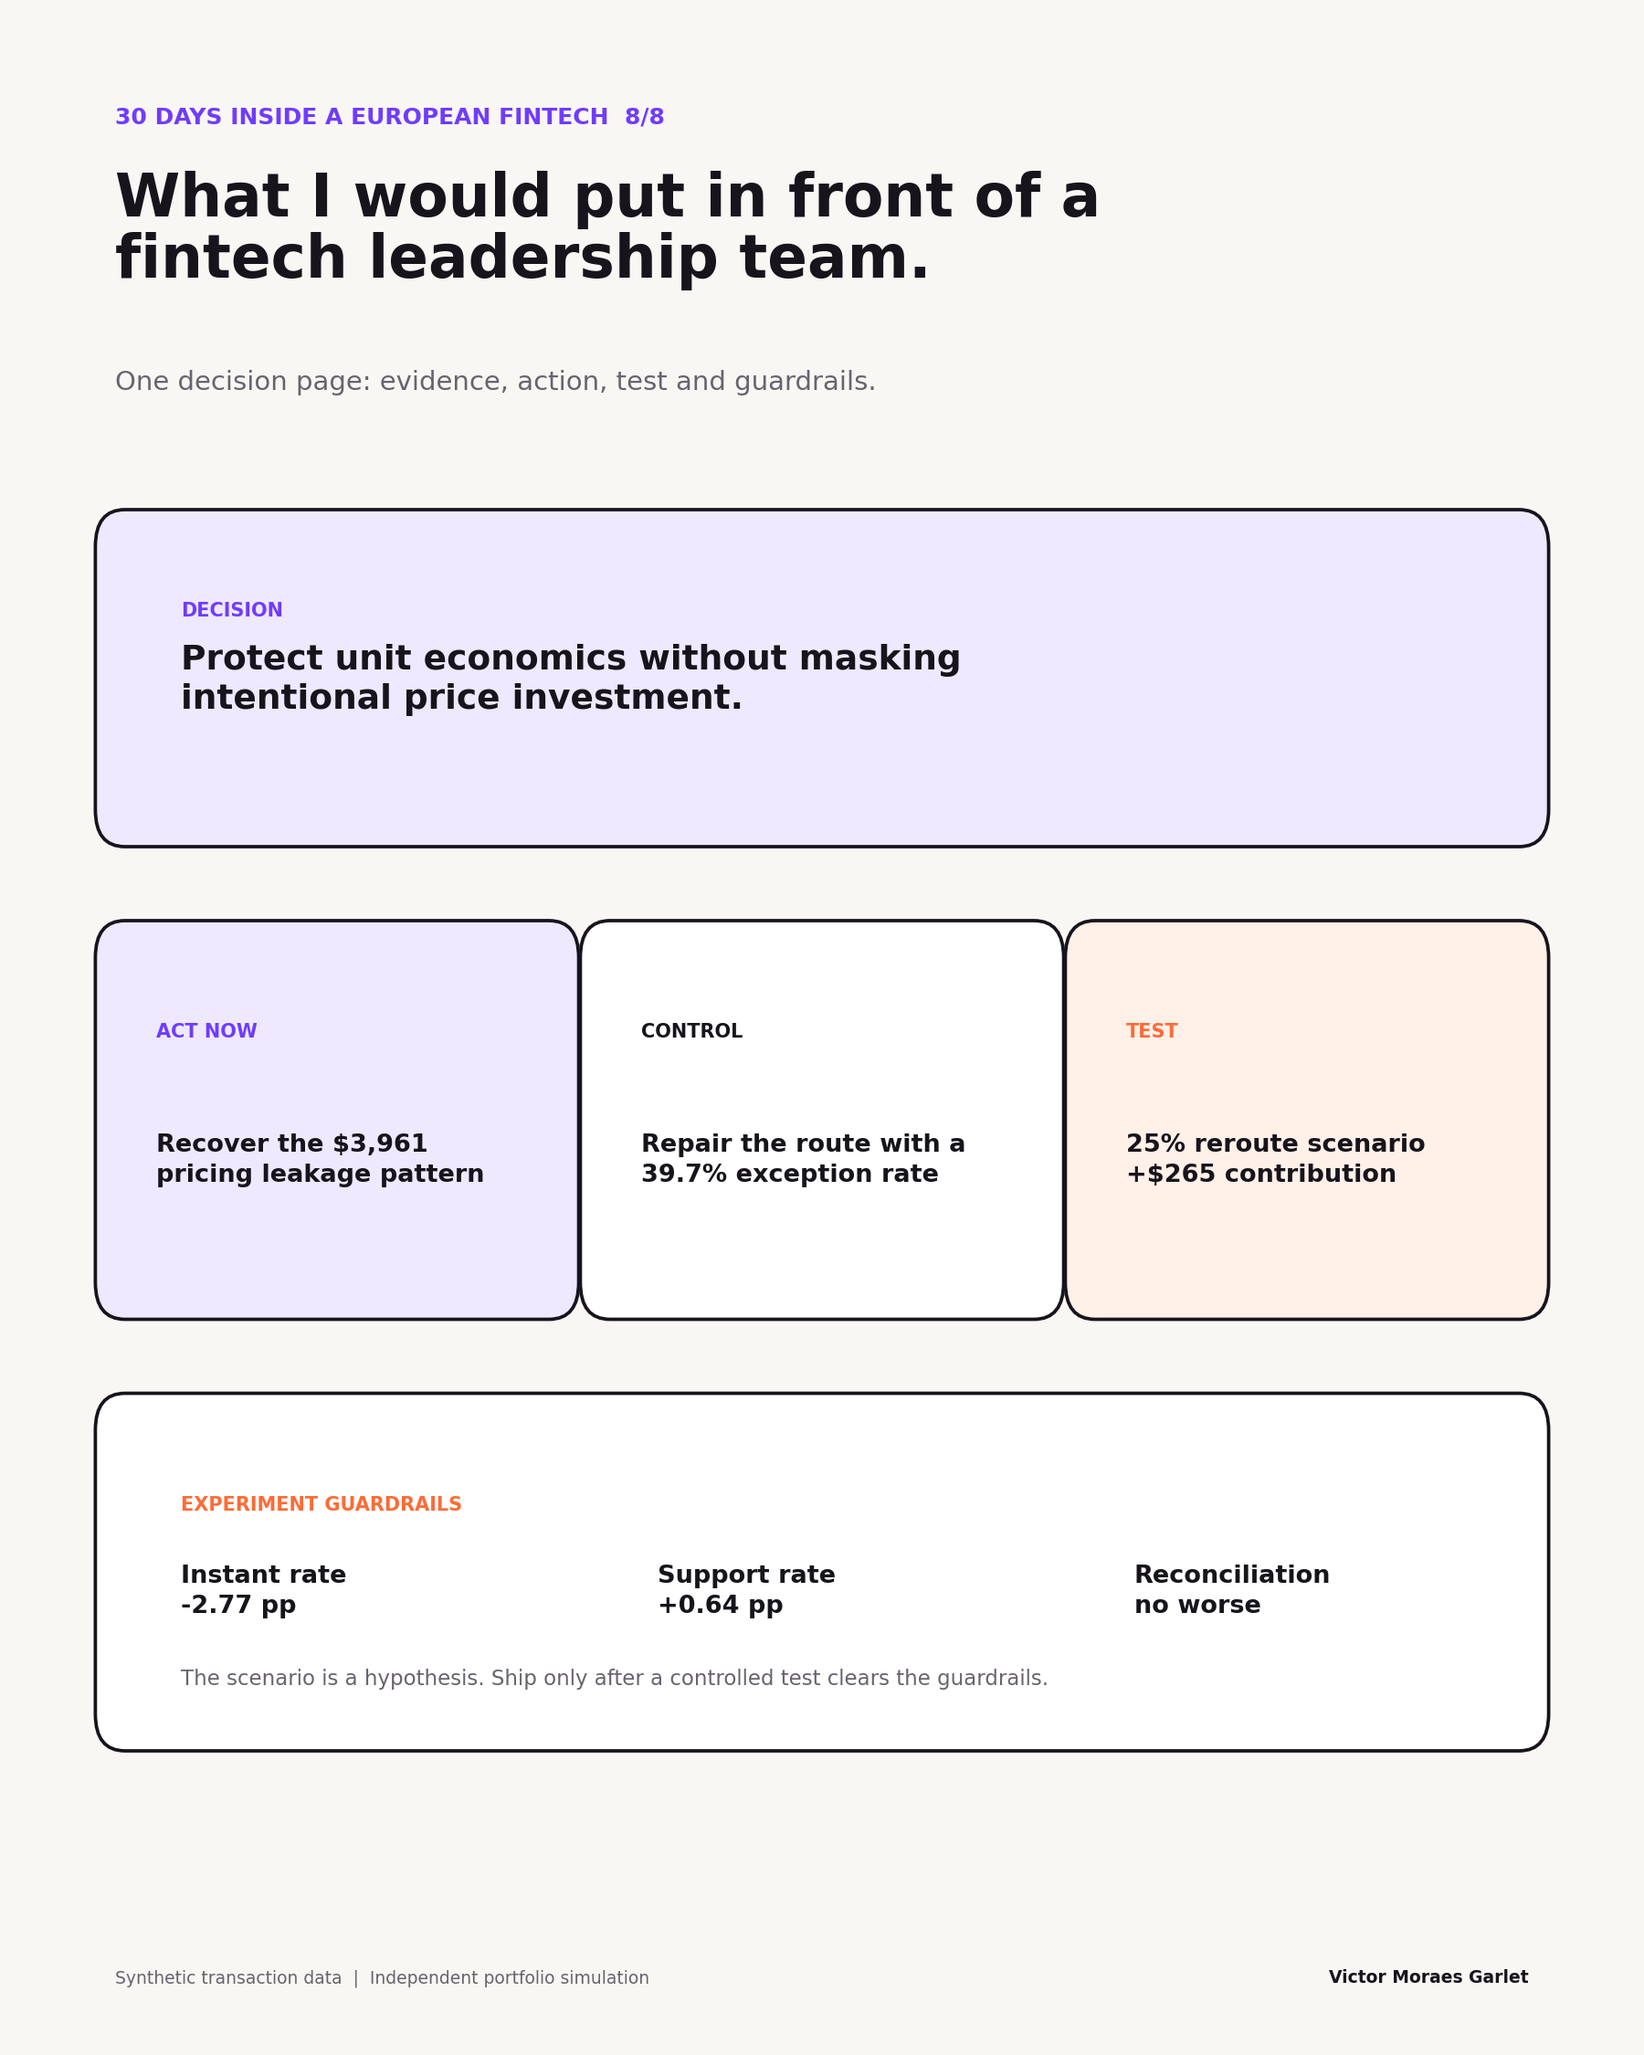
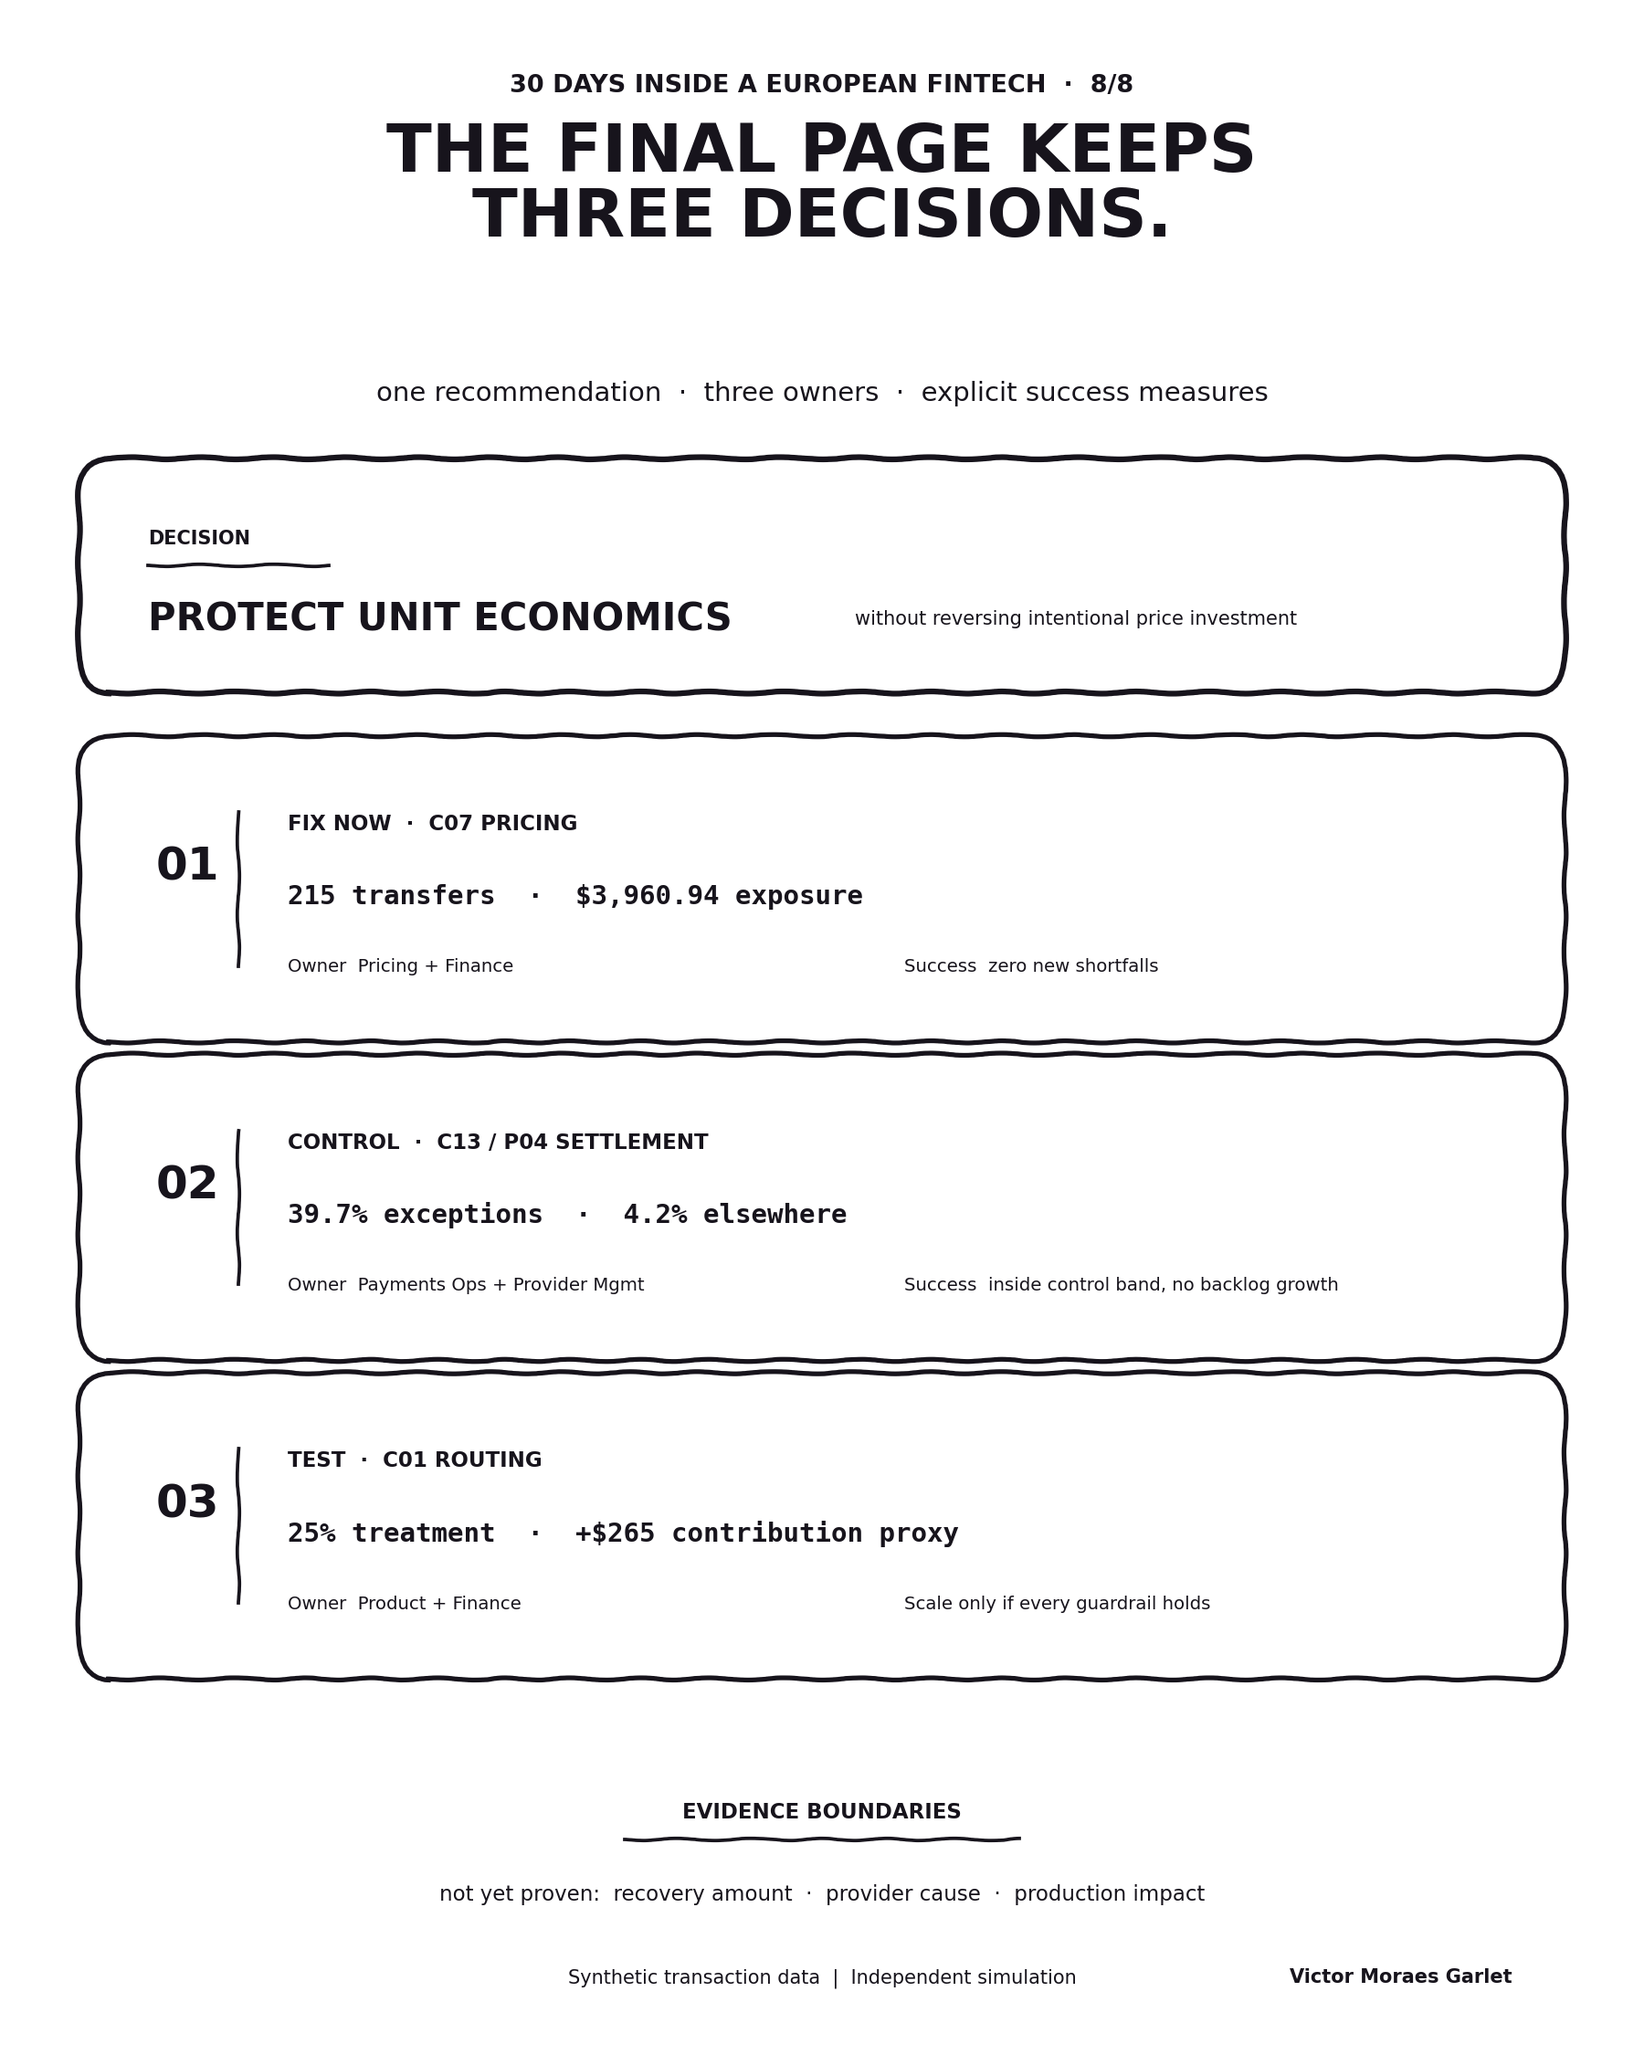
Approve and schedule episode 8

diff --git a/scripts/build_visuals.py b/scripts/build_visuals.py
@@ -617,31 +617,80 @@ def build_episode_08(connection):
         """,
     )[0]
 
-    fig, ax = base_figure(
-        8,
-        "What I would put in front of a\nfintech leadership team.",
-        "One decision page: evidence, action, test and guardrails.",
-    )
-    card(ax, 0.07, 0.60, 0.86, 0.14, PURPLE_SOFT)
-    ax.text(0.11, 0.70, "DECISION", color=PURPLE, fontsize=10, fontweight="bold")
-    ax.text(0.11, 0.655, "Protect unit economics without masking\nintentional price investment.", color=INK, fontsize=18, fontweight="bold", linespacing=1.25)
+    fig = plt.figure(figsize=(12, 15), facecolor=WHITE)
+    ax = fig.add_axes((0, 0, 1, 1))
+    ax.set_xlim(0, 1)
+    ax.set_ylim(0, 1)
+    ax.axis("off")
 
-    cards = [
-        (0.07, 0.37, "ACT NOW", f"Recover the ${leakage:,.0f}\npricing leakage pattern", PURPLE_SOFT, PURPLE),
-        (0.365, 0.37, "CONTROL", f"Repair the route with a\n{hotspot:.1f}% exception rate", WHITE, INK),
-        (0.66, 0.37, "TEST", f"25% reroute scenario\n+${scenario[0]:,.0f} contribution", ORANGE_SOFT, ORANGE),
+    def rough_card(x, y, width, height, linewidth=2.5):
+        patch = FancyBboxPatch(
+            (x, y),
+            width,
+            height,
+            boxstyle="round,pad=0.012,rounding_size=0.018",
+            linewidth=linewidth,
+            edgecolor=INK,
+            facecolor=WHITE,
+        )
+        patch.set_sketch_params(scale=1.2, length=90, randomness=2.5)
+        ax.add_patch(patch)
+
+    def rough_line(xs, ys, linewidth=2.0):
+        line, = ax.plot(xs, ys, color=INK, linewidth=linewidth)
+        line.set_sketch_params(scale=1.2, length=90, randomness=2.5)
+
+    fig.text(0.50, 0.955, "30 DAYS INSIDE A EUROPEAN FINTECH  ·  8/8", ha="center", color=INK, fontsize=13, fontweight="bold")
+    fig.text(0.50, 0.885, "THE FINAL PAGE KEEPS\nTHREE DECISIONS.", ha="center", color=INK, fontsize=35, fontweight="bold", linespacing=1.0)
+    fig.text(0.50, 0.805, "one recommendation  ·  three owners  ·  explicit success measures", ha="center", color=INK, fontsize=14)
+
+    rough_card(0.06, 0.675, 0.88, 0.09, 3.0)
+    ax.text(0.09, 0.735, "DECISION", ha="left", color=INK, fontsize=10, fontweight="bold")
+    rough_line([0.09, 0.20], [0.725, 0.725], 1.8)
+    ax.text(0.09, 0.693, "PROTECT UNIT ECONOMICS", ha="left", color=INK, fontsize=20, fontweight="bold")
+    ax.text(0.52, 0.696, "without reversing intentional price investment", ha="left", color=INK, fontsize=10)
+
+    rows = [
+        (
+            0.505,
+            "01",
+            "FIX NOW  ·  C07 PRICING",
+            f"215 transfers  ·  ${leakage:,.2f} exposure",
+            "Owner  Pricing + Finance",
+            "Success  zero new shortfalls",
+        ),
+        (
+            0.350,
+            "02",
+            "CONTROL  ·  C13 / P04 SETTLEMENT",
+            f"{hotspot:.1f}% exceptions  ·  4.2% elsewhere",
+            "Owner  Payments Ops + Provider Mgmt",
+            "Success  inside control band, no backlog growth",
+        ),
+        (
+            0.195,
+            "03",
+            "TEST  ·  C01 ROUTING",
+            f"25% treatment  ·  +${scenario[0]:,.0f} contribution proxy",
+            "Owner  Product + Finance",
+            "Scale only if every guardrail holds",
+        ),
     ]
-    for x, y, tag, body, fill, accent in cards:
-        card(ax, x, y, 0.27, 0.17, fill)
-        ax.text(x + 0.025, y + 0.125, tag, color=accent, fontsize=10, fontweight="bold")
-        ax.text(x + 0.025, y + 0.055, body, color=INK, fontsize=13, fontweight="bold", linespacing=1.35)
 
-    card(ax, 0.07, 0.16, 0.86, 0.15, WHITE)
-    ax.text(0.11, 0.265, "EXPERIMENT GUARDRAILS", color=ORANGE, fontsize=10, fontweight="bold")
-    ax.text(0.11, 0.215, f"Instant rate\n{scenario[1]:+.2f} pp", color=INK, fontsize=13, fontweight="bold", linespacing=1.35)
-    ax.text(0.40, 0.215, f"Support rate\n{scenario[2]:+.2f} pp", color=INK, fontsize=13, fontweight="bold", linespacing=1.35)
-    ax.text(0.69, 0.215, "Reconciliation\nno worse", color=INK, fontsize=13, fontweight="bold", linespacing=1.35)
-    ax.text(0.11, 0.18, "The scenario is a hypothesis. Ship only after a controlled test clears the guardrails.", color=MUTED, fontsize=11)
+    for y, number, action, evidence, owner, success in rows:
+        rough_card(0.06, y, 0.88, 0.125)
+        ax.text(0.095, y + 0.073, number, ha="left", va="center", color=INK, fontsize=24, fontweight="bold")
+        rough_line([0.145, 0.145], [y + 0.025, y + 0.100], 1.8)
+        ax.text(0.175, y + 0.091, action, ha="left", color=INK, fontsize=11, fontweight="bold")
+        ax.text(0.175, y + 0.055, evidence, ha="left", color=INK, fontsize=14, fontweight="bold", family="monospace")
+        ax.text(0.175, y + 0.022, owner, ha="left", color=INK, fontsize=9.5)
+        ax.text(0.55, y + 0.022, success, ha="left", color=INK, fontsize=9.5)
+
+    ax.text(0.50, 0.115, "EVIDENCE BOUNDARIES", ha="center", color=INK, fontsize=11, fontweight="bold")
+    rough_line([0.38, 0.62], [0.105, 0.105], 1.8)
+    ax.text(0.50, 0.075, "not yet proven:  recovery amount  ·  provider cause  ·  production impact", ha="center", color=INK, fontsize=11)
+    fig.text(0.50, 0.035, "Synthetic transaction data  |  Independent simulation", ha="center", color=INK, fontsize=10)
+    fig.text(0.92, 0.035, "Victor Moraes Garlet", ha="right", color=INK, fontsize=10, fontweight="bold")
     save(fig, "episode_08_executive_decision.png")
 
 

diff --git a/tests/test_public_content.py b/tests/test_public_content.py
@@ -37,7 +37,7 @@ class PublicContentTestCase(unittest.TestCase):
 
     def test_editorial_calendar_tracks_release_status(self):
         calendar = (PROJECT_ROOT / "content" / "editorial_calendar.md").read_text(encoding="utf-8")
-        self.assertEqual(calendar.count("Hold for approval"), 1)
+        self.assertEqual(calendar.count("Hold for approval"), 0)
         self.assertIn(
             "| 5 | Tue, 13 Oct 2026 | Decompose the take-rate movement | Waterfall | Scheduled for 08:00 Europe/Dublin |",
             calendar,
@@ -64,6 +64,10 @@ class PublicContentTestCase(unittest.TestCase):
         )
         self.assertIn(
             "| 7 | Tue, 20 Oct 2026 | Convert findings into actions and a test | Decision matrix | Scheduled for 08:00 Europe/Dublin |",
+            calendar,
+        )
+        self.assertIn(
+            "| 8 | Fri, 23 Oct 2026 | Present the final leadership recommendation | Executive decision page | Scheduled for 08:00 Europe/Dublin |",
             calendar,
         )
 

diff --git a/content/posts/episode_08.md b/content/posts/episode_08.md
@@ -1,42 +1,71 @@
 # Episode 8: Make the decision defensible
 
-**Status:** Draft for approval  
+**Status:** Scheduled for Fri, 23 Oct 2026 at 08:00 Europe/Dublin
 **Visual:** `content/visuals/episode_08_executive_decision.png`
+**Alt text:** Black-and-white hand-drawn executive decision page for the final episode of a synthetic European fintech case. The decision is to protect unit economics without reversing intentional price investment. Action 1 fixes C07 pricing after 215 transfers created $3,960.94 of synthetic exposure, owned by Pricing and Finance with zero new shortfalls as the success measure. Action 2 controls C13/P04 settlement after a 39.7% exception rate versus 4.2% elsewhere, owned by Payments Operations and Provider Management. Action 3 tests C01 routing with a 25% treatment and an estimated $265 contribution uplift, owned by Product and Finance and scaled only if every guardrail holds. The unresolved boundaries are recovery amount, provider cause and production impact.
 
 ## Post copy
+
+Eight episodes produced dozens of metrics.
+
+The final page keeps three decisions.
 
 **30 Days Inside a European Fintech [8/8]**
 
 I'm using Wise's public disclosures and synthetic data to simulate how a Senior Data Analyst could work through a fintech problem from question to decision.
 
-The final deliverable is one decision page.
+My recommendation is to protect unit economics without reversing intentional price investment.
 
-The recommendation:
+1. Correct the C07 pricing configuration
 
-Protect unit economics without masking intentional price investment.
+Owner: Pricing Analytics and Finance.
 
-Three actions sit underneath it.
+The issue affected 215 business transfers and created $3,960.94 of synthetic exposure.
 
-1. Correct the pricing leakage
+Correct the rule, review affected records and compare expected with collected fee before daily close.
 
-One corridor and business segment produced $3,960.94 of simulated lost fees. Fix the configuration, reconcile affected records and test expected against collected fee before daily close.
+Success means zero new unexpected shortfalls and a resolution status for every affected record.
 
-2. Repair the settlement control
+2. Repair the C13/P04 settlement control
 
-One corridor-provider pair reached a 39.7% exception rate. Give the route an owner and track amount mismatch, lateness, missing settlement and unresolved ageing separately.
+Owner: Payments Operations and Provider Management.
 
-3. Test a limited routing change
+The route reached a 39.7% exception rate, compared with 4.2% elsewhere.
 
-The priority-speed route is materially faster and more expensive. A 25% reroute scenario improves the contribution proxy by $265.44, with estimated trade-offs of -2.77 pp in instant rate and +0.64 pp in support contacts.
+Keep missing, late and mismatched settlements separate, assign an owner and track unresolved ageing.
 
-I would not ship that routing policy from descriptive data. I would run the controlled experiment described in the previous post and require all guardrails to clear before scaling.
+Success means returning the route within the agreed control band without growing the backlog.
 
-The technical project behind this page includes deterministic Python generation, DuckDB, 23 dbt models, 168 automated tests, reconciliation controls, decision marts and eight reproducible visuals.
+3. Authorise a controlled C01 routing experiment
 
-The biggest lesson from the series is that analysis becomes useful when every number has a definition, every finding has a confidence level and every recommendation says what happens next.
+Owner: Payments Product and Finance Analytics.
 
-Quick glossary  
-*Contribution margin proxy = collected fee minus provider and estimated support costs in this simulation.  
-*Decision guardrail = a limit that protects customer or operational outcomes while pursuing the primary goal.
+A 25% planning scenario estimates $315.28 lower provider cost and $265.44 higher contribution margin proxy.
 
-This is an independent simulation inspired by Wise's public disclosures. I am not affiliated with Wise. All transaction-level data and project findings are synthetic; any company-level figures are sourced from public reports.
+It also estimates a 2.77 percentage-point decline in instant delivery and a 0.64 percentage-point increase in support contacts.
+
+I would scale only if contribution improved and the speed, support and reconciliation guardrails remained within limits agreed before the test.
+
+The evidence still has boundaries.
+
+The exposure is not automatically recoverable. The settlement concentration does not prove the provider caused it. The routing scenario sizes an opportunity; it does not forecast the result of changing production traffic.
+
+The project uses 23 dbt models and 168 automated tests to keep each headline number connected to its definition, source records and business rules.
+
+I started with one take-rate decline.
+
+The analysis separated it into approved price investment, unexpected fee leakage, a settlement-control failure and a routing hypothesis worth testing.
+
+That changed the response to each finding.
+
+The final logic is simple: fix what is directly observed, control what is concentrated, test what remains uncertain and monitor what is too small to justify intervention.
+
+That is the standard I wanted this project to meet: enough evidence to decide, and enough honesty to say what could still change it.
+
+Quick glossary
+
+*Contribution margin proxy = collected fee minus provider cost and estimated support cost in this simulation.
+
+*Guardrail = a metric that must stay within an agreed limit while a test is running.
+
+Disclosure: This is an independent simulation inspired by Wise's public disclosures. I am not affiliated with Wise. All transaction-level data and project findings are synthetic; any company-level figures are sourced from public reports.

diff --git a/content/editorial_calendar.md b/content/editorial_calendar.md
@@ -6,7 +6,7 @@ Publish twice per week, Tuesday and Friday at 08:00 Europe/Dublin.
 
 The technical project can be completed in one sprint. The public story benefits from four weeks because each post has time to circulate, collect discussion and lead naturally into the next decision.
 
-Episodes 1–7 are scheduled. Episode 8 remains on hold for review and approval.
+All eight episodes are scheduled.
 
 | Episode | Date | Role in the series | Visual | Status |
 | --- | --- | --- | --- | --- |
@@ -17,7 +17,7 @@ Episodes 1–7 are scheduled. Episode 8 remains on hold for review and approval.
 | 5 | Tue, 13 Oct 2026 | Decompose the take-rate movement | Waterfall | Scheduled for 08:00 Europe/Dublin |
 | 6 | Fri, 16 Oct 2026 | Evaluate speed, cost and support | Trade-off chart | Scheduled for 08:00 Europe/Dublin |
 | 7 | Tue, 20 Oct 2026 | Convert findings into actions and a test | Decision matrix | Scheduled for 08:00 Europe/Dublin |
-| 8 | Fri, 23 Oct 2026 | Present the final leadership recommendation | Executive decision page | Hold for approval |
+| 8 | Fri, 23 Oct 2026 | Present the final leadership recommendation | Executive decision page | Scheduled for 08:00 Europe/Dublin |
 
 ## Publishing checklist
 
